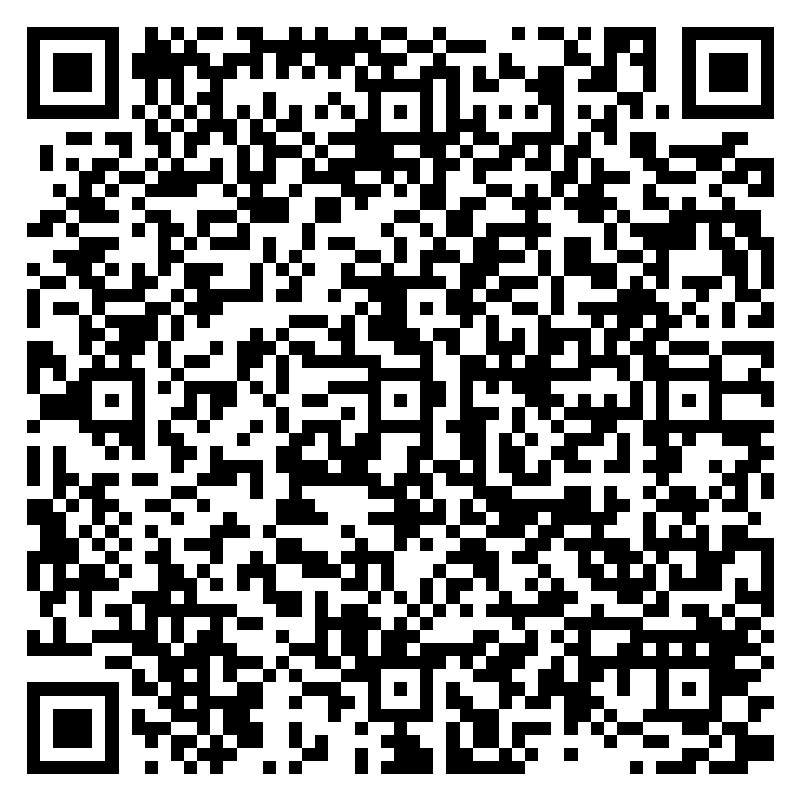
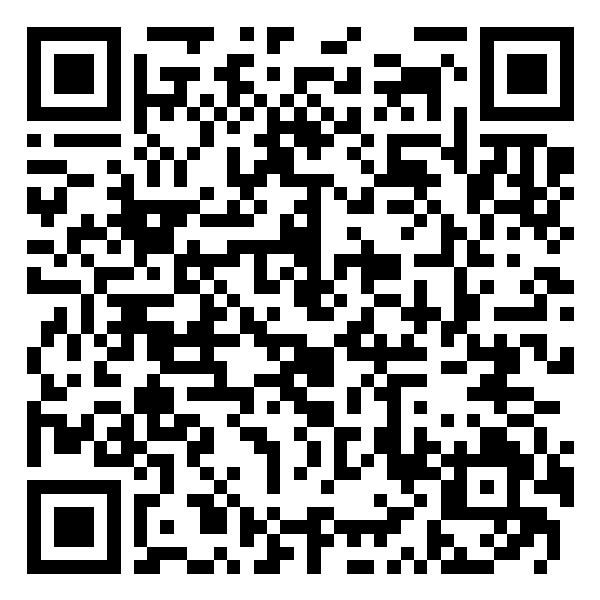
Change UPI to 8921332098@okbizaxis (Anwin C M) with updated QR, payee verification and duplicate protection

diff --git a/frontend/src/components/Registration.jsx b/frontend/src/components/Registration.jsx
@@ -40,7 +40,7 @@ export default function Registration({ isOpen, onClose }) {
   // Existing database Transaction IDs for duplicate protection
   const [usedTxnIds, setUsedTxnIds] = useState([]);
 
-  const upiPayUrl = `upi://pay?pa=${EVENT_DETAILS.gpayUpiId}&pn=Albin%20Mathews&am=150&cu=INR&tn=EDESSA%202026%20Registration`;
+  const upiPayUrl = `upi://pay?pa=${EVENT_DETAILS.gpayUpiId}&pn=Anwin%20C%20M&am=150&cu=INR&tn=EDESSA%202026%20Registration`;
 
   // Fetch all existing transaction IDs from Google Sheet + LocalStorage on mount
   const fetchExistingTransactions = async () => {
@@ -204,20 +204,17 @@ export default function Registration({ isOpen, onClose }) {
       setIsVerifying(false);
       const textLower = text.toLowerCase();
 
-            // Check 1: Recipient Verification (Albin Mathews / UPI handle / phone)
+            // Check 1: Recipient Verification (Anwin C M / UPI handle / phone)
       const hasPayeeMatch = 
-        textLower.includes('albin') || 
-        textLower.includes('mathews') || 
-        textLower.includes('albinmathews') || 
-        textLower.includes('okaxis') || 
-        textLower.includes('oksbi') ||
-        textLower.includes('paytm') ||
-        textLower.includes('9207215221') ||
+        textLower.includes('anwin') || 
+        textLower.includes('8921332098') || 
+        textLower.includes('okbizaxis') || 
+        textLower.includes('8921') ||
         textLower.includes('edessa');
 
       if (!hasPayeeMatch) {
         setVerificationError(
-          'Screenshot Invalid: Payment recipient must be Albin Mathews (albinmathewsktu70@okaxis).'
+          'Screenshot Invalid: Payment recipient must be Anwin C M (8921332098@okbizaxis).'
         );
         setPayeeVerified(false);
         setIsVerified(false);
@@ -459,7 +456,7 @@ export default function Registration({ isOpen, onClose }) {
                 {/* QR Code Container */}
                 <div className="bg-[#2a1a12] p-4 rounded-2xl border border-[#4a2c1d] flex flex-col items-center text-center shadow-inner">
                   <div className="w-56 h-56 bg-white rounded-2xl p-2.5 shadow-2xl border-2 border-[#e5c158] flex items-center justify-center overflow-hidden">
-                    <img src={gpayQr} alt="GPay UPI QR Code - albinmathewsktu70@okaxis" className="w-full h-full object-contain rounded-xl" />
+                    <img src={gpayQr} alt="GPay UPI QR Code - 8921332098@okbizaxis" className="w-full h-full object-contain rounded-xl" />
                   </div>
                   <p className="text-xs font-bold text-[#e5c158] mt-3 font-cinzel tracking-wide">
                     Scan & Pay ₹150 via GPay / PhonePe / Paytm / BHIM
@@ -507,7 +504,7 @@ export default function Registration({ isOpen, onClose }) {
                   <div>
                     <p className="text-[#f4ece1]/60 font-semibold uppercase text-[10px]">Beneficiary Name</p>
                     <p className="text-xs font-medium text-[#f4ece1]">
-                      Albin Mathews (SMYM Unit President)
+                      Anwin C M (SMYM Secretary)
                     </p>
                   </div>
                 </div>
@@ -752,7 +749,7 @@ export default function Registration({ isOpen, onClose }) {
                           {payeeVerified && (
                             <div className="flex items-center gap-1.5 text-xs text-green-400 font-bold bg-green-500/10 px-2.5 py-1 rounded-lg border border-green-500/30">
                               <CheckCircle className="w-4 h-4 text-green-400 flex-shrink-0" />
-                              <span>Paid to Albin Mathews Verified!</span>
+                              <span>Paid to Anwin C M Verified!</span>
                             </div>
                           )}
                         </div>
@@ -766,7 +763,7 @@ export default function Registration({ isOpen, onClose }) {
                           Click or Drag & Drop GPay Payment Screenshot
                         </p>
                         <p className="text-[10px] text-gray-400">
-                          AI will verify payment to <strong>albinmathewsktu70@okaxis</strong> and detect 12-digit UPI Txn ID
+                          AI will verify payment to <strong>8921332098@okbizaxis</strong> and detect 12-digit UPI Txn ID
                         </p>
                       </div>
                     )}

diff --git a/frontend/src/data/mockData.js b/frontend/src/data/mockData.js
@@ -13,8 +13,8 @@ export const EVENT_DETAILS = {
   tagline: "Arise. Shine. Witness.",
   audience: "Only for Chemmalamattom Parish Youth",
   registrationFee: "Rs.150 per person",
-  gpayNumber: "+91 9207215221",
-  gpayUpiId: "albinmathewsktu70@okaxis",
+  gpayNumber: "+91 8921332098",
+  gpayUpiId: "8921332098@okbizaxis",
 };
 
 export const SCHEDULE_DATA = [
